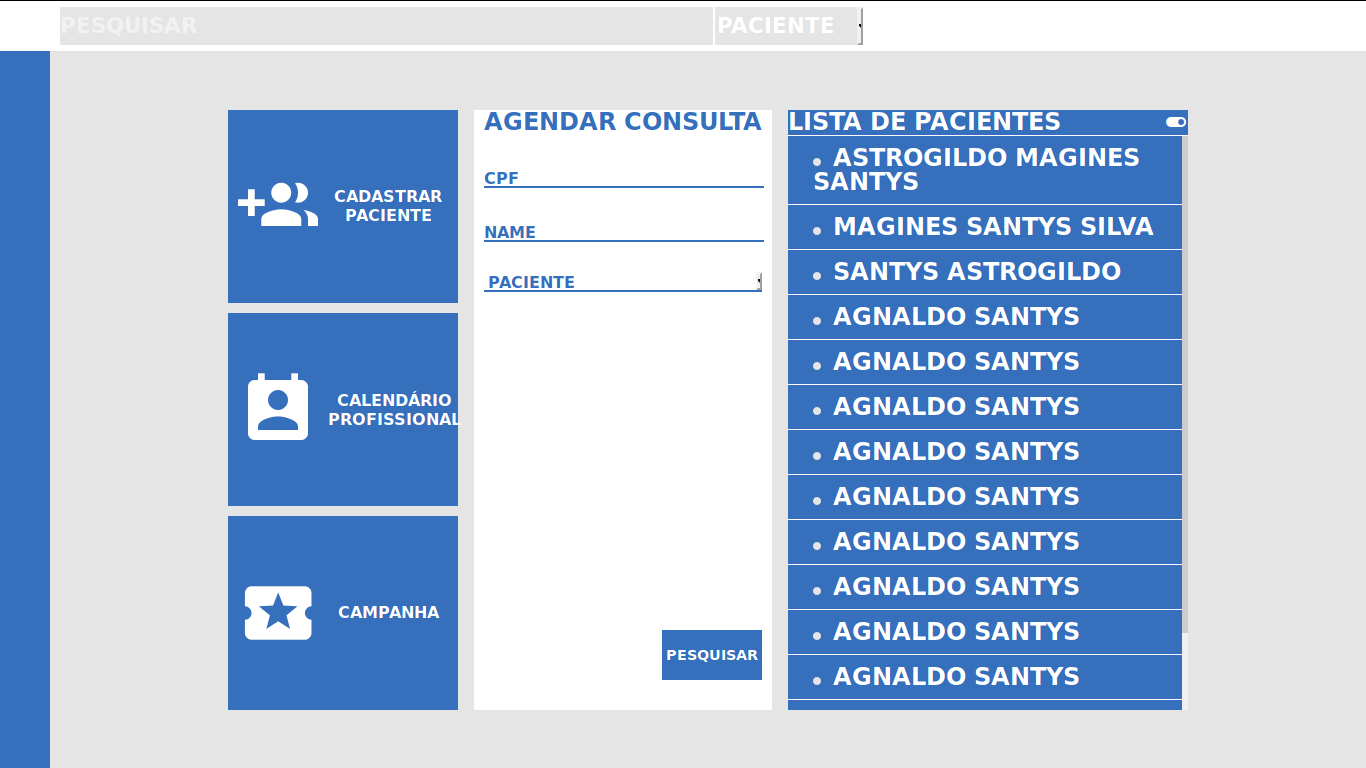
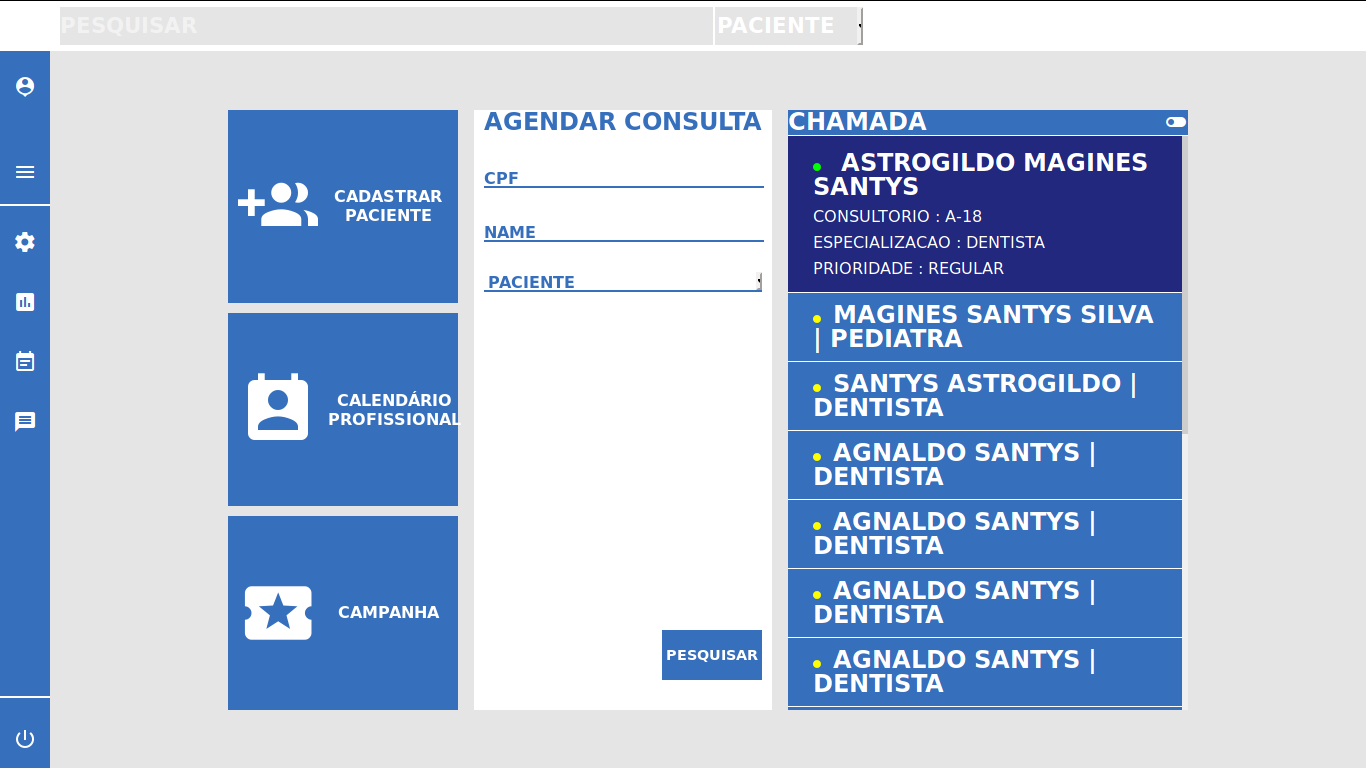
Adicionado novo screenshot e inciado a criação do menu lateral

diff --git a/src/pages/DashBoard/MenuBar/index.js b/src/pages/DashBoard/MenuBar/index.js
@@ -1,9 +1,29 @@
 import React from 'react';
+import LabelIcon from '../../../components/LabelIcon';
+import Container from '../../../components/Container';
+
 import './style.css';
 
 export default function MenuBar(){
     return(
         <nav className={'nav-bar-menu'}>
+            <Container className="menu_section_primary">
+
+                <LabelIcon icon="person_pin">UserName</LabelIcon>
+                <LabelIcon icon="menu">Menu</LabelIcon>
+            
+            </Container>
+            
+            <Container className="menu_section_secundary">
+
+                <LabelIcon icon="settings">UserName</LabelIcon>
+                <LabelIcon icon="assessment">Menu</LabelIcon>
+                <LabelIcon icon="event_note">Menu</LabelIcon>
+                <LabelIcon icon="message">UserName</LabelIcon>
+                <LabelIcon icon="power_settings_new">Menu</LabelIcon>
+            
+            </Container>
+
         </nav>
     );
 }

diff --git a/src/pages/DashBoard/MenuBar/style.css b/src/pages/DashBoard/MenuBar/style.css
@@ -1,4 +1,34 @@
 .nav-bar-menu{
     background-color: var(--primary-color);
     width: 100%;
+    max-width: 100px;
+    display: grid;
+    grid-template-columns: auto;
+    grid-template-rows: 155px auto;
+    color: var(--secundary-color);
+    position: relative;
+}
+
+.menu_section_primary{
+    display: grid;
+    align-items: center;
+    align-content: space-between;
+    border-bottom: 2px solid var(--secundary-color);
+}
+
+.menu_section_secundary{
+    display: block;
+
+}
+
+.menu_section_secundary > div{
+    cursor: pointer;
+    height: 60px;
+}
+
+.menu_section_secundary > div:last-child{
+    position: fixed;
+    border-top: 2px solid var(--secundary-color);
+    bottom: 0;
+    padding: 5px 13px;
 }

diff --git a/src/components/LabelIcon/index.js b/src/components/LabelIcon/index.js
@@ -1,0 +1,13 @@
+import React from 'react';
+
+
+export default function LabelIcon({children, icon, className, props}){
+  
+  console.log(props);
+
+  return(
+    <div className = {className || ''}>
+      <i className='material-icons'>{icon}</i>     
+    </div>
+  );
+}

diff --git a/src/pages/Login/style.css b/src/pages/Login/style.css
@@ -4,7 +4,7 @@
     display: grid;
     align-content: center;
     justify-content: center;
-    background-color: var(--fifth-color);
+    background-color: var(--eighth-color);
 }
 .container-box{
     display: grid;
